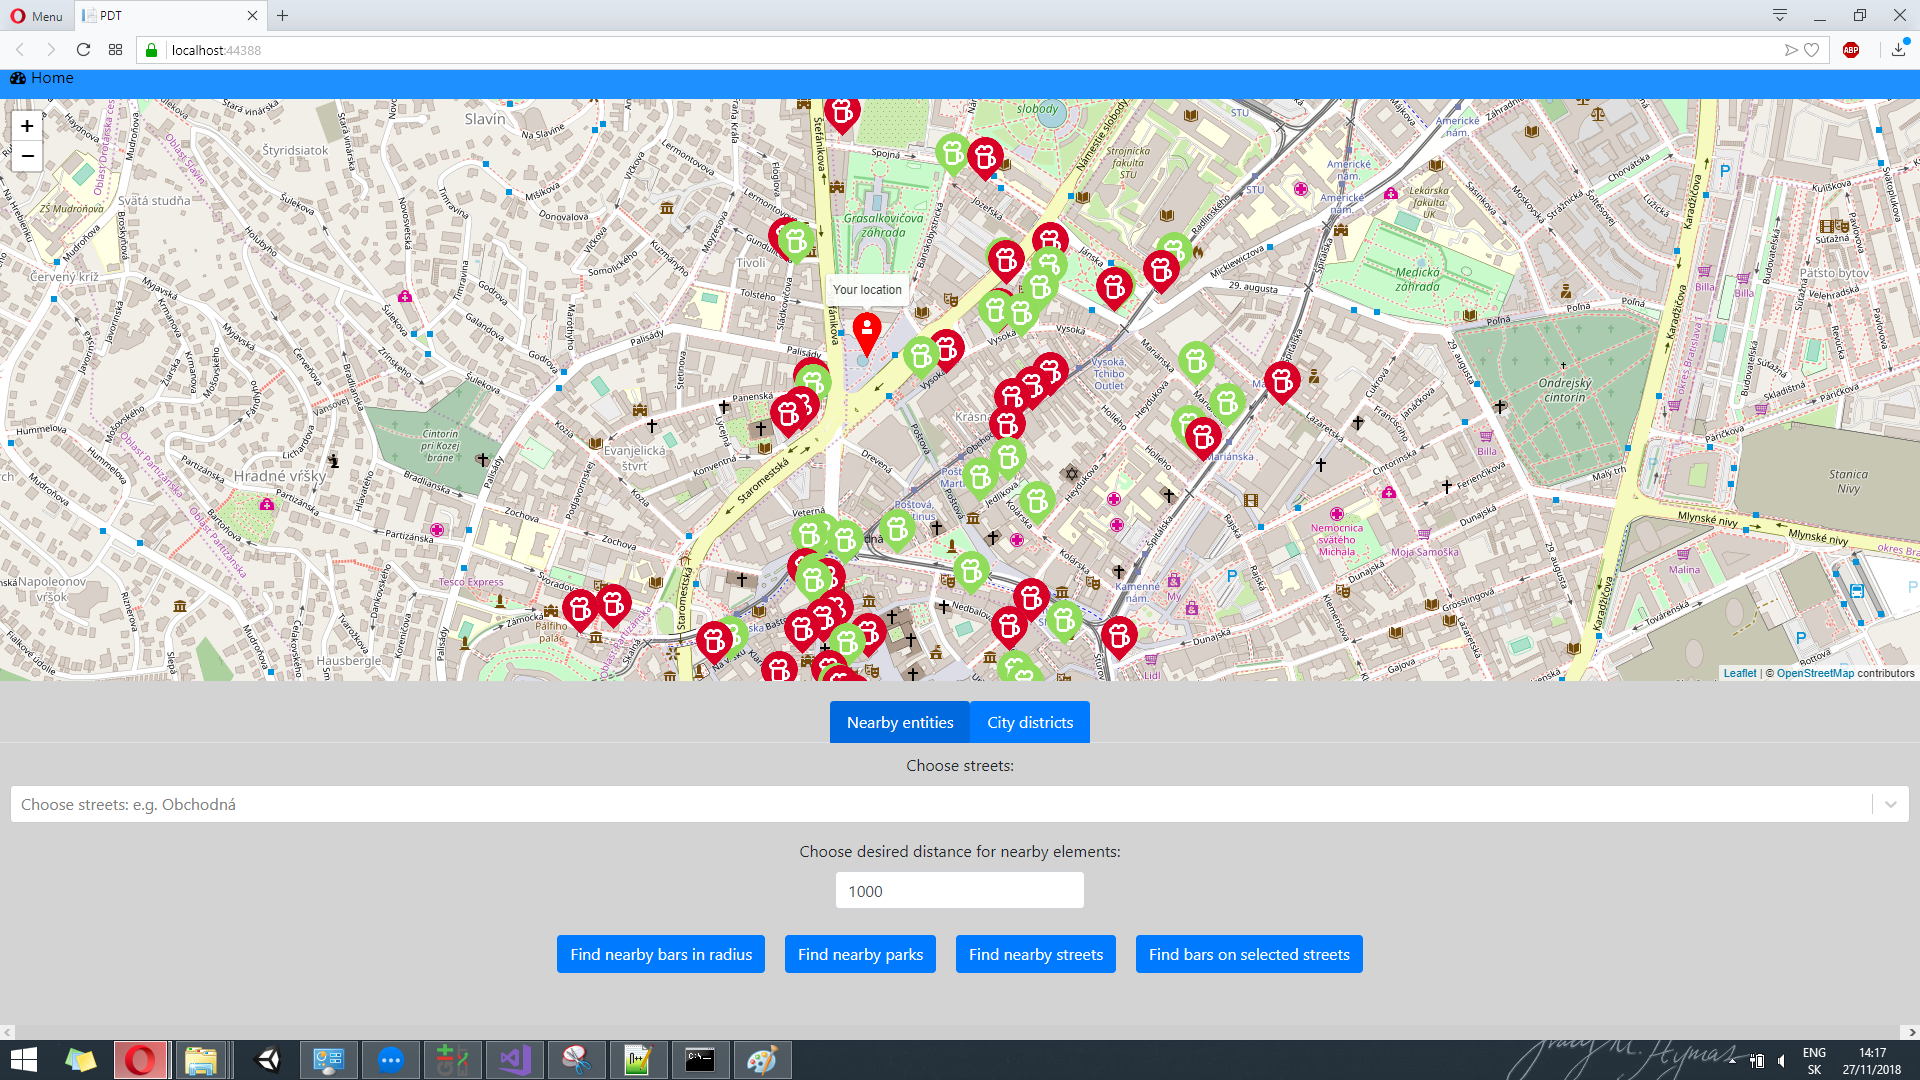
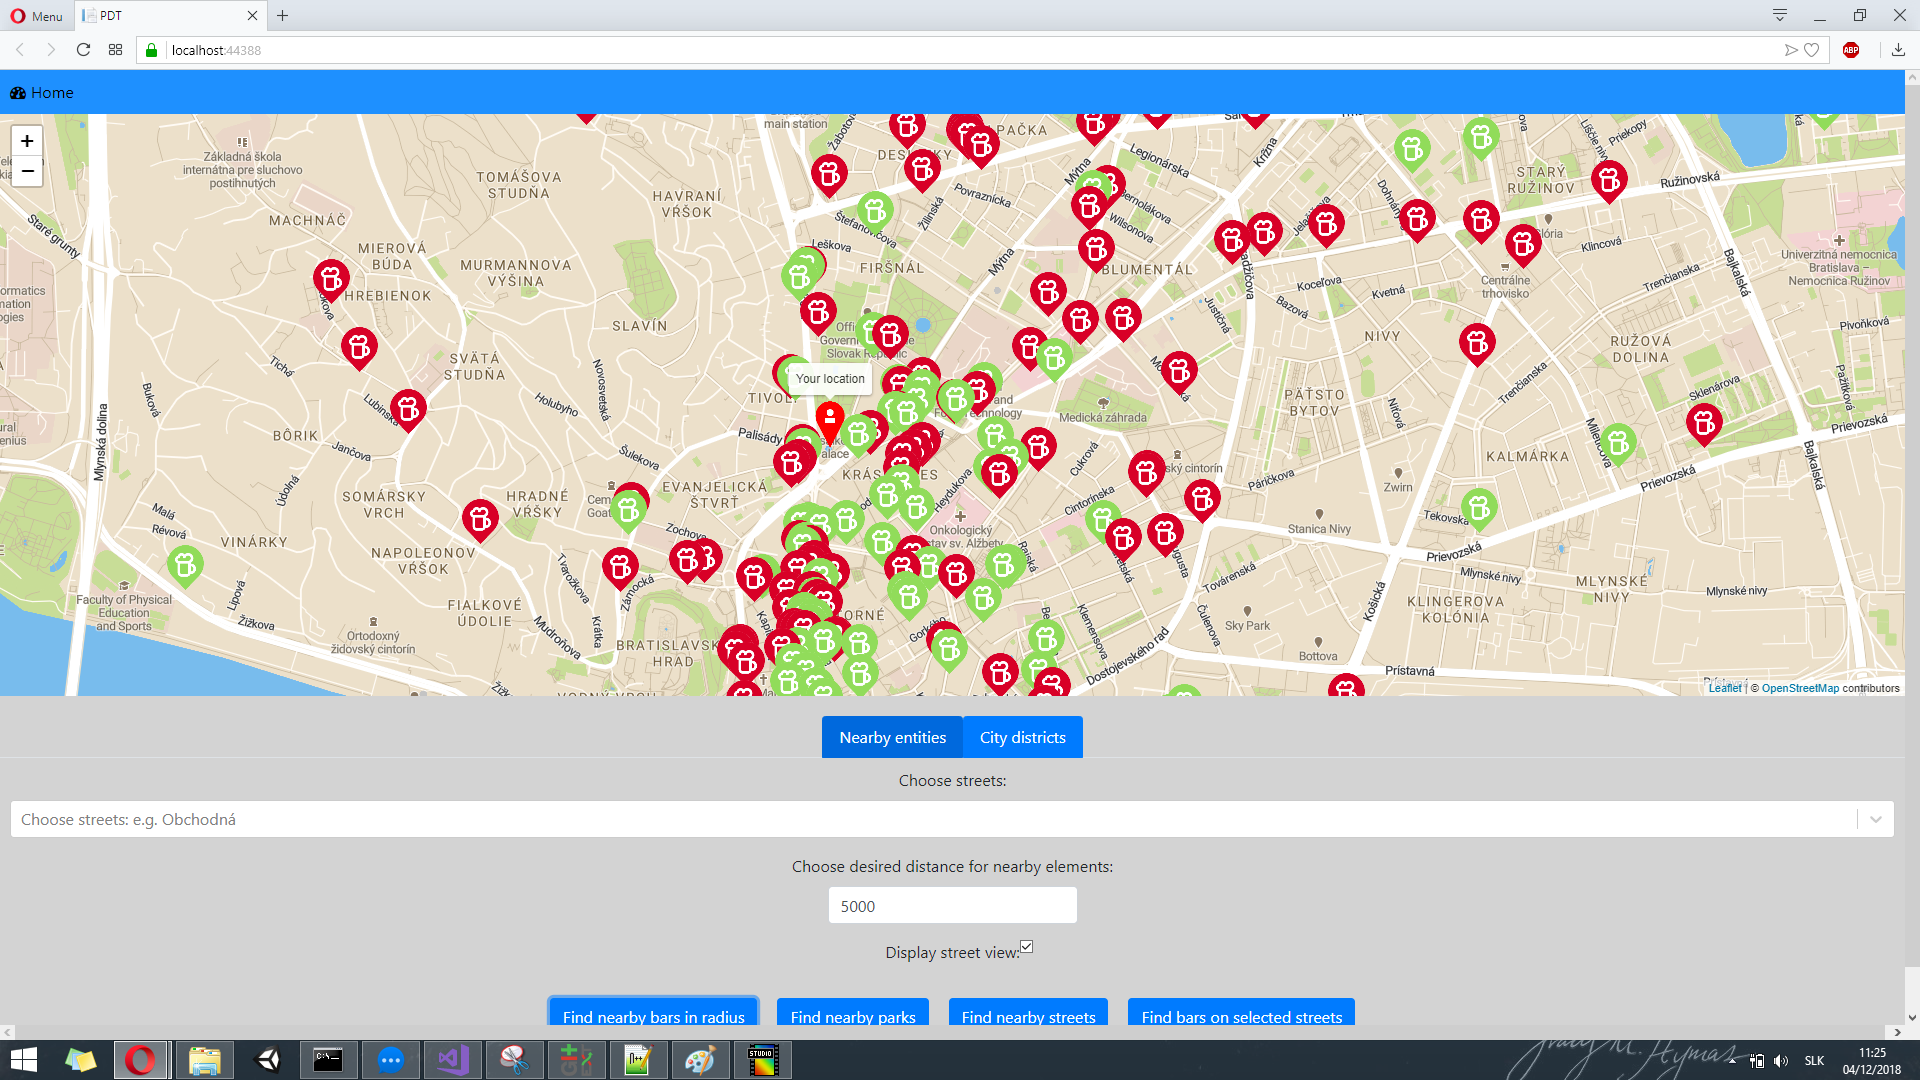
Updated documentation

diff --git a/documentation.md b/documentation.md
@@ -24,6 +24,8 @@ The application has 2 separate parts, the client which is a [react application](
 
 The fronted application is SPA written in React. It communicates with backend rest API using native function "fetch". The map is displayed using react component based Leaflet technology. Geographic information is displayed in GeoJSON format on Leaflet map. 
 
+Leaflet also uses Mapbox custom layers. Thanks to this it is possible to switch satellite and street view.
+
 Each of the point properties has its own icon (user location, bar, pub, supermarket, tobacco shop, wine shop and alcohol store). Parks are shown as polygon in two different colours. Red for parks without benches and blue for parks with benches. Selected streets are show in single color(green).
 
 Most of the relevant frontend code is located in Home.js along with some styling in App.scss and general layout in DefaultLayout.cs. Icons are stored in Icons folder.

diff --git a/README.md b/README.md
@@ -41,6 +41,7 @@ Three base scenarios handled by this application:
 Frontend
 - React.js
 - Leaflet.js
+- Mapbox
 
 Backend
 - C# 
